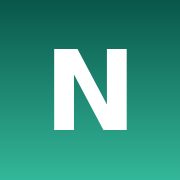
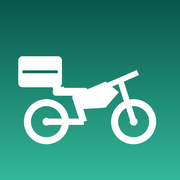
Add files via upload

Changed region(s): [[0.0833, 0.25, 0.8889, 0.8056]]

diff --git a/index.html b/index.html
@@ -53,7 +53,7 @@ body{font-family:'Plus Jakarta Sans',sans-serif;background:#f6faf8;color:#1e293b
 <header class="clean-nav sticky top-0 z-40 shadow-sm">
   <div class="max-w-2xl mx-auto px-3 sm:px-4 py-2.5 flex items-center justify-between gap-1.5">
     <div class="flex items-center gap-1.5 cursor-pointer group" onclick="irInicio()">
-      <div class="w-9 h-9 bg-gradient-to-tr from-brand-700 via-brand-500 to-brand-300 rounded-xl flex items-center justify-center font-black text-white text-lg shadow-md group-hover:scale-105 transition">N</div>
+      <img src="icon-192.png" alt="NecoEnvíos" class="w-9 h-9 rounded-xl shadow-md group-hover:scale-105 transition">
       <div>
         <h1 class="text-sm sm:text-lg font-black tracking-tight leading-none text-slate-900">Neco<span class="text-transparent bg-clip-text bg-gradient-to-r from-brand-600 to-brand-400">Envíos</span></h1>
         <p class="text-[8px] text-slate-400 font-extrabold tracking-widest uppercase mt-0.5">Envíos locales</p>
@@ -125,6 +125,7 @@ body{font-family:'Plus Jakarta Sans',sans-serif;background:#f6faf8;color:#1e293b
         <div class="bg-slate-50 rounded-xl p-2.5"><b class="text-brand-600">Retiro</b><p id="res-r" class="text-slate-600 break-words">Sin elegir</p></div>
         <div class="bg-slate-50 rounded-xl p-2.5"><b class="text-brand-600">Entrega</b><p id="res-e" class="text-slate-600 break-words">Sin elegir</p></div>
       </div>
+      <div><p class="text-[11px] font-extrabold text-slate-500 uppercase mb-1">¿Qué vehículo necesitás?</p><div id="filtro-veh" class="flex gap-1.5"><button type="button" data-v="todos" class="flex-1 text-xs font-black rounded-xl py-2 bg-brand-600 text-white">Cualquiera</button><button type="button" data-v="moto" class="flex-1 text-xs font-black rounded-xl py-2 bg-slate-100 text-slate-600">🏍 Moto</button><button type="button" data-v="auto" class="flex-1 text-xs font-black rounded-xl py-2 bg-slate-100 text-slate-600">🚗 Auto</button><button type="button" data-v="bici" class="flex-1 text-xs font-black rounded-xl py-2 bg-slate-100 text-slate-600">🚲 Bici</button></div><p class="text-[11px] text-slate-400 mt-1">Para paquetes grandes o frágiles, elegí Auto.</p></div>
       <button id="btn-consultar" onclick="consultar()" type="button" class="w-full bg-gradient-to-r from-brand-700 to-brand-500 text-white font-black text-sm rounded-2xl py-3.5 shadow-md active:scale-[.98] flex items-center justify-center gap-2"><i data-lucide="search" class="w-4 h-4"></i> Consultar repartidores disponibles</button>
     </div>
     <p id="err-sol" class="hidden text-xs font-bold text-rose-600 bg-rose-50 border border-rose-200 rounded-2xl px-4 py-3"></p>
@@ -475,9 +476,12 @@ async function consultar(){
   btn.disabled = false;
 }
 const VEH = { moto:'🏍 Moto', bici:'🚲 Bici', auto:'🚗 Auto' };
+let filtroVeh = 'todos', ultimaLista = [];
 function pintarRepartidores(lista){
+  if (lista) ultimaLista = lista;
+  lista = ultimaLista.filter(r => filtroVeh === 'todos' || r.vehiculo === filtroVeh);
   const box = $('lista-rep'); box.innerHTML = '';
-  if (!lista.length) { box.innerHTML = '<div class="clean-card rounded-3xl p-5 text-center text-sm text-slate-500">Ahora no hay repartidores disponibles para ese recorrido. Probá en unos minutos.</div>'; return; }
+  if (!lista.length) { box.innerHTML = '<div class="clean-card rounded-3xl p-5 text-center text-sm text-slate-500">' + (ultimaLista.length ? 'No hay repartidores con ese vehículo para este recorrido ahora. Probá con «Cualquiera».' : 'Ahora no hay repartidores disponibles para ese recorrido. Probá en unos minutos.') + '</div>'; return; }
   lista.forEach(r => {
     const foto = r.rostro_path ? `${SUPABASE_URL}/storage/v1/object/public/ne-rostros/${encodeURI(r.rostro_path)}` : '';
     const d = document.createElement('div'); d.className = 'clean-card rounded-3xl p-4 flex items-center gap-3';
@@ -491,6 +495,11 @@ function pintarRepartidores(lista){
   });
 }
 function mostrarError(m){ const e = $('err-sol'); e.textContent = m; e.classList.remove('hidden'); e.scrollIntoView({ behavior:'smooth', block:'center' }); mostrarToast(m); }
+document.querySelectorAll('#filtro-veh [data-v]').forEach(b => b.addEventListener('click', () => {
+  filtroVeh = b.dataset.v;
+  document.querySelectorAll('#filtro-veh [data-v]').forEach(x => { x.className = 'flex-1 text-xs font-black rounded-xl py-2 ' + (x.dataset.v === filtroVeh ? 'bg-brand-600 text-white' : 'bg-slate-100 text-slate-600'); });
+  if (ultimaLista.length) pintarRepartidores();
+}));
 async function solicitar(r, btn){
   const txt = btn.textContent; btn.disabled = true; btn.textContent = 'Solicitando…'; $('err-sol').classList.add('hidden');
   let id = null;

diff --git a/repartidor.js b/repartidor.js
@@ -33,7 +33,7 @@
   /* ---------- 1. INSTALAR ---------- */
   function pInstalar() {
     root().innerHTML = volver() + card(`
-      <div class="text-center"><div class="w-16 h-16 mx-auto rounded-2xl bg-gradient-to-tr from-brand-700 to-brand-400 text-white flex items-center justify-center text-2xl font-black shadow-md">N</div>
+      <div class="text-center"><img src="icon-192.png" alt="" class="w-16 h-16 mx-auto rounded-2xl shadow-md">
       <h2 class="text-xl font-black mt-3">Instalá la app de repartidores</h2>
       <p class="text-xs text-slate-500 mt-1">Con la app instalada recibís avisos de nuevos pedidos y funciona más rápido.</p></div>
       ${R.deferred ? btn('i-inst', 'Instalar app') : ''}
